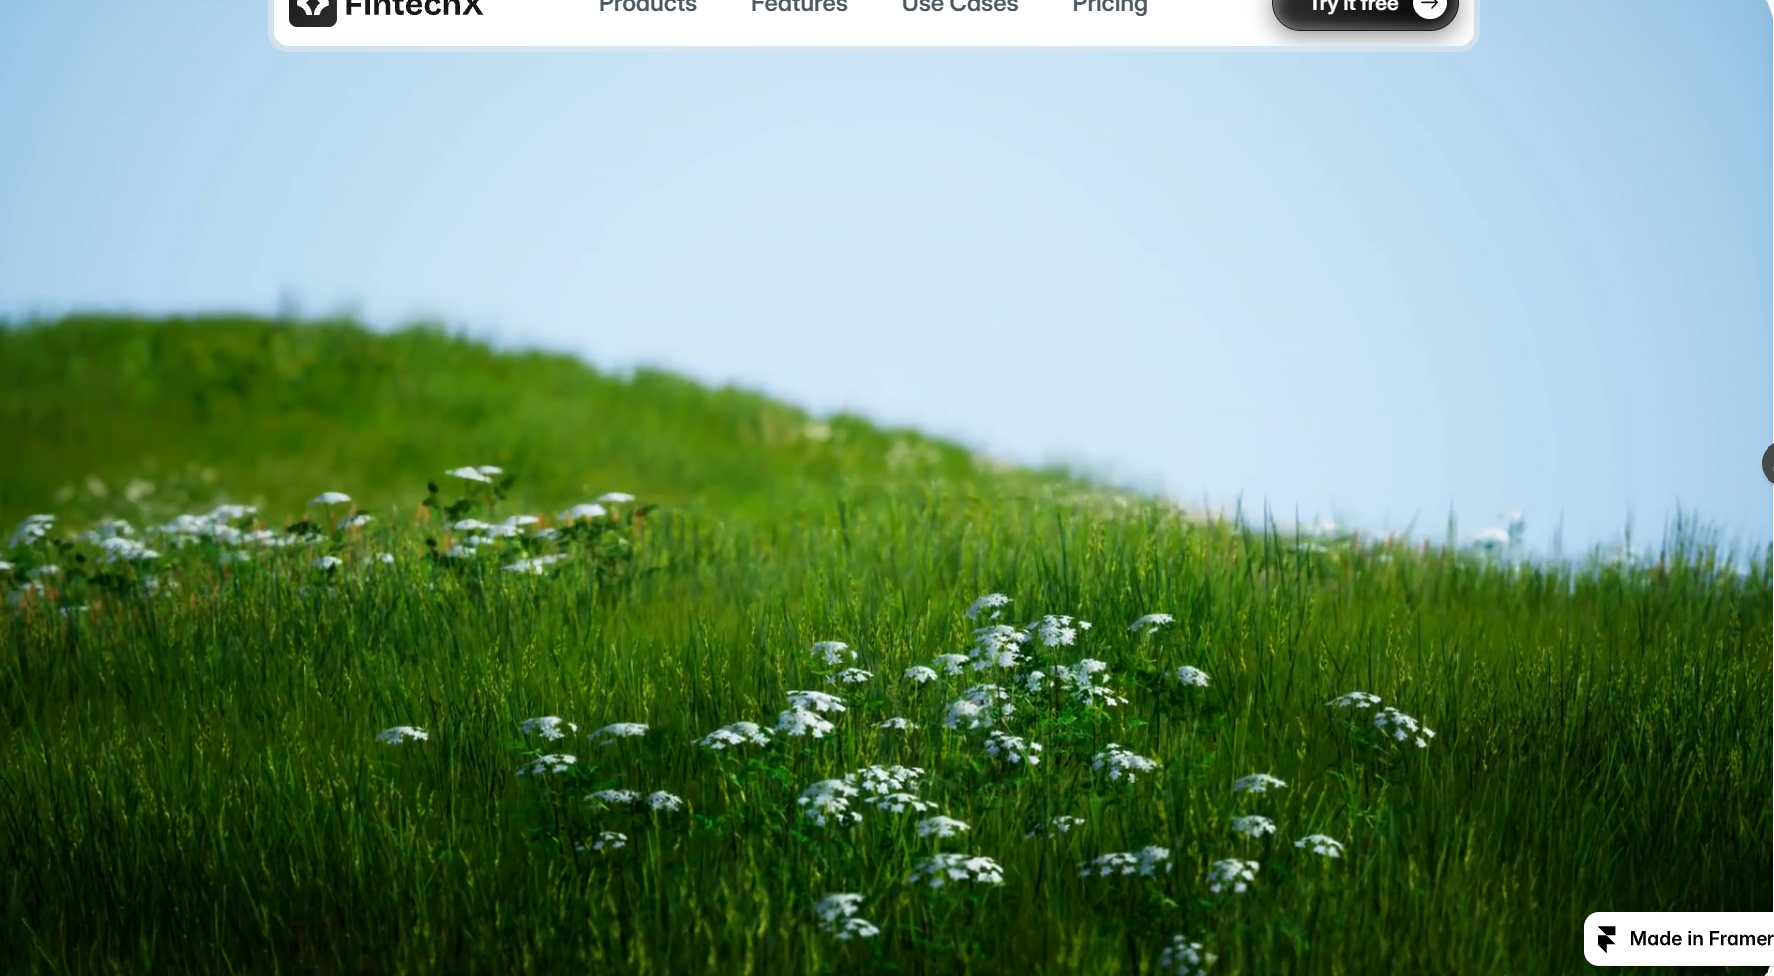
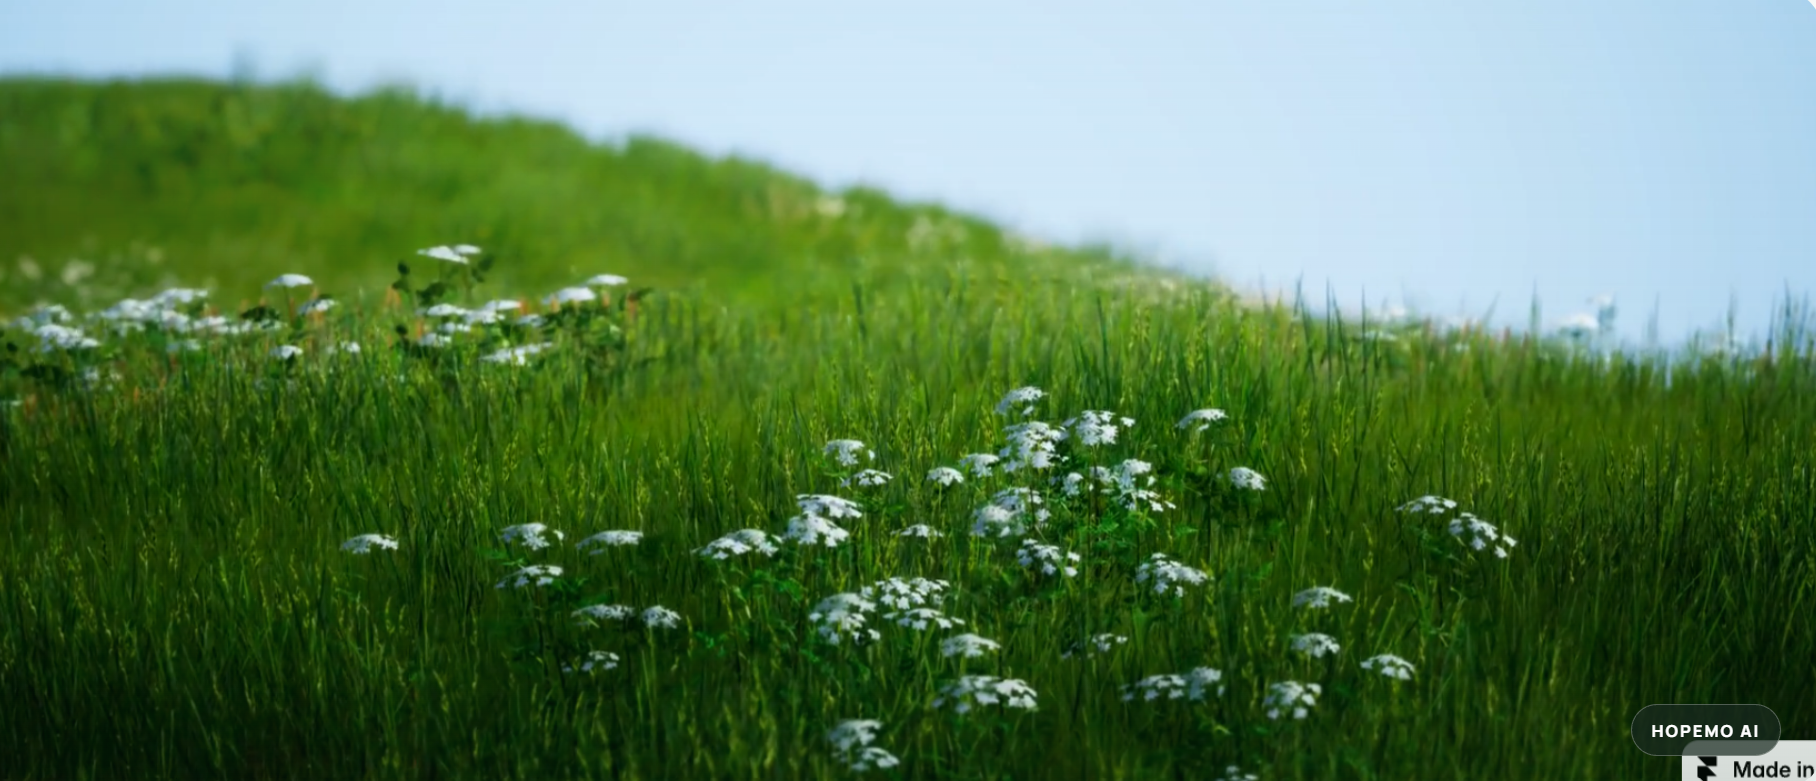
Fix about media and browser navigation

diff --git a/frontend/src/App.jsx b/frontend/src/App.jsx
@@ -1523,6 +1523,17 @@ const pageDetails = {
     "This short self-reflection uses your selected answers to create a score-based report. It is not a diagnosis, treatment, or a substitute for professional care.",
   ],
 };
+
+const infoPageNames = new Set(Object.keys(pageDetails));
+
+function infoPageFromAddress() {
+  if (typeof window === "undefined" || !window.location.hash.startsWith("#/")) {
+    return "";
+  }
+  const page = window.location.hash.slice(2);
+  return infoPageNames.has(page) ? page : "";
+}
+
 function AboutPage({ onHome, startChat }) {
   const features = [
     [
@@ -2229,7 +2240,7 @@ class AppErrorBoundary extends React.Component {
 function HopemoApp() {
   const [screen, setScreen] = useState("home");
   const [authOpen, setAuthOpen] = useState(false);
-  const [infoPage, setInfoPage] = useState("");
+  const [infoPage, setInfoPage] = useState(infoPageFromAddress);
   const [token, setToken] = useState(
     localStorage.getItem("hopemo_access_token") || "",
   );
@@ -2277,9 +2288,33 @@ function HopemoApp() {
     setScreen("chat");
     setAuthOpen(true);
   }
-  const goHome = () => {
-    setInfoPage("");
+
+  function navigateToInfoPage(page) {
+    const nextHash = page ? `#/${page}` : "";
+    if (window.location.hash !== nextHash) {
+      window.history.pushState(
+        { hopemoPage: page || "home" },
+        "",
+        `${window.location.pathname}${window.location.search}${nextHash}`,
+      );
+    }
+    setInfoPage(page);
     setScreen("home");
+    window.scrollTo({ top: 0, behavior: "smooth" });
+  }
+
+  useEffect(() => {
+    const restoreFromBrowserHistory = () => {
+      setInfoPage(infoPageFromAddress());
+      setScreen("home");
+      window.scrollTo({ top: 0, behavior: "smooth" });
+    };
+    window.addEventListener("popstate", restoreFromBrowserHistory);
+    return () => window.removeEventListener("popstate", restoreFromBrowserHistory);
+  }, []);
+
+  const goHome = () => {
+    navigateToInfoPage("");
   };
   return (
     <>
@@ -2323,16 +2358,10 @@ function HopemoApp() {
           startChat={startChat}
           token={token}
           logout={logout}
-          openReport={() => {
-            setInfoPage("mental-report");
-            window.scrollTo({ top: 0, behavior: "smooth" });
-          }}
+          openReport={() => navigateToInfoPage("mental-report")}
           onNavigate={(page) => {
             if (page === "student-success") startStudentSuccess();
-            else {
-              setInfoPage(page);
-              window.scrollTo({ top: 0, behavior: "smooth" });
-            }
+            else navigateToInfoPage(page);
           }}
         />
       )}
